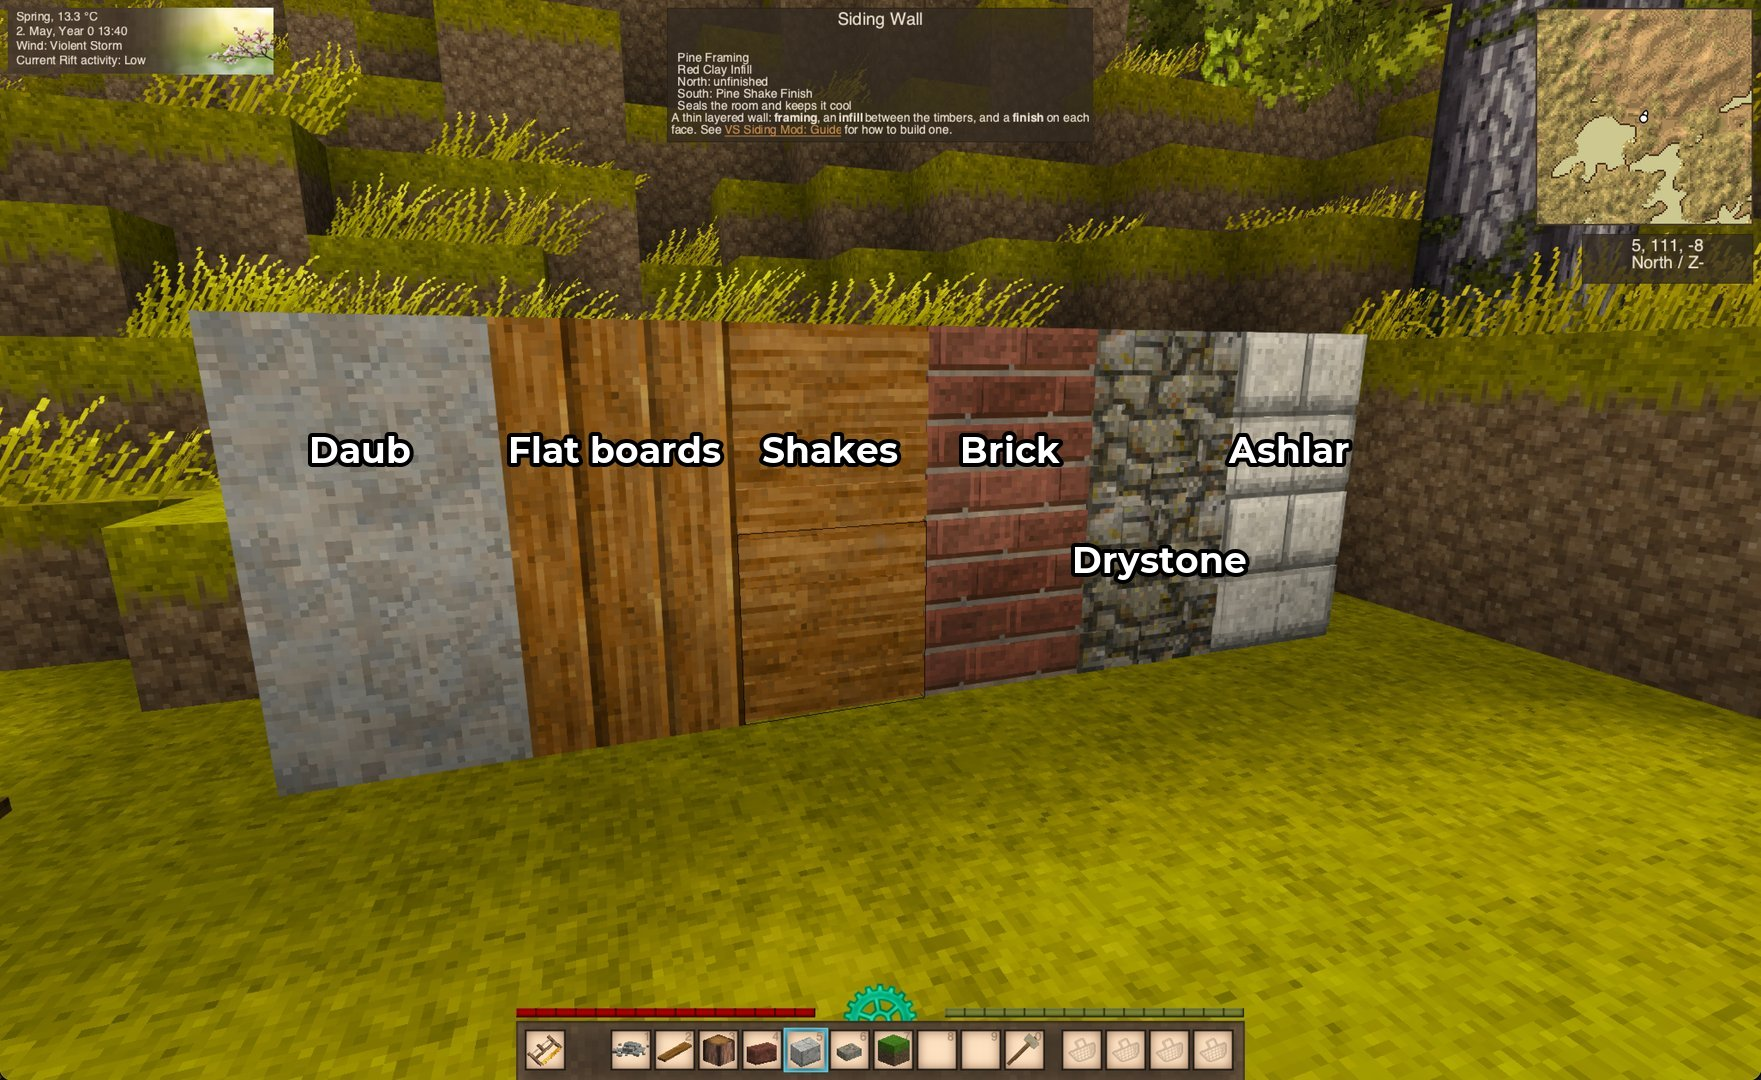
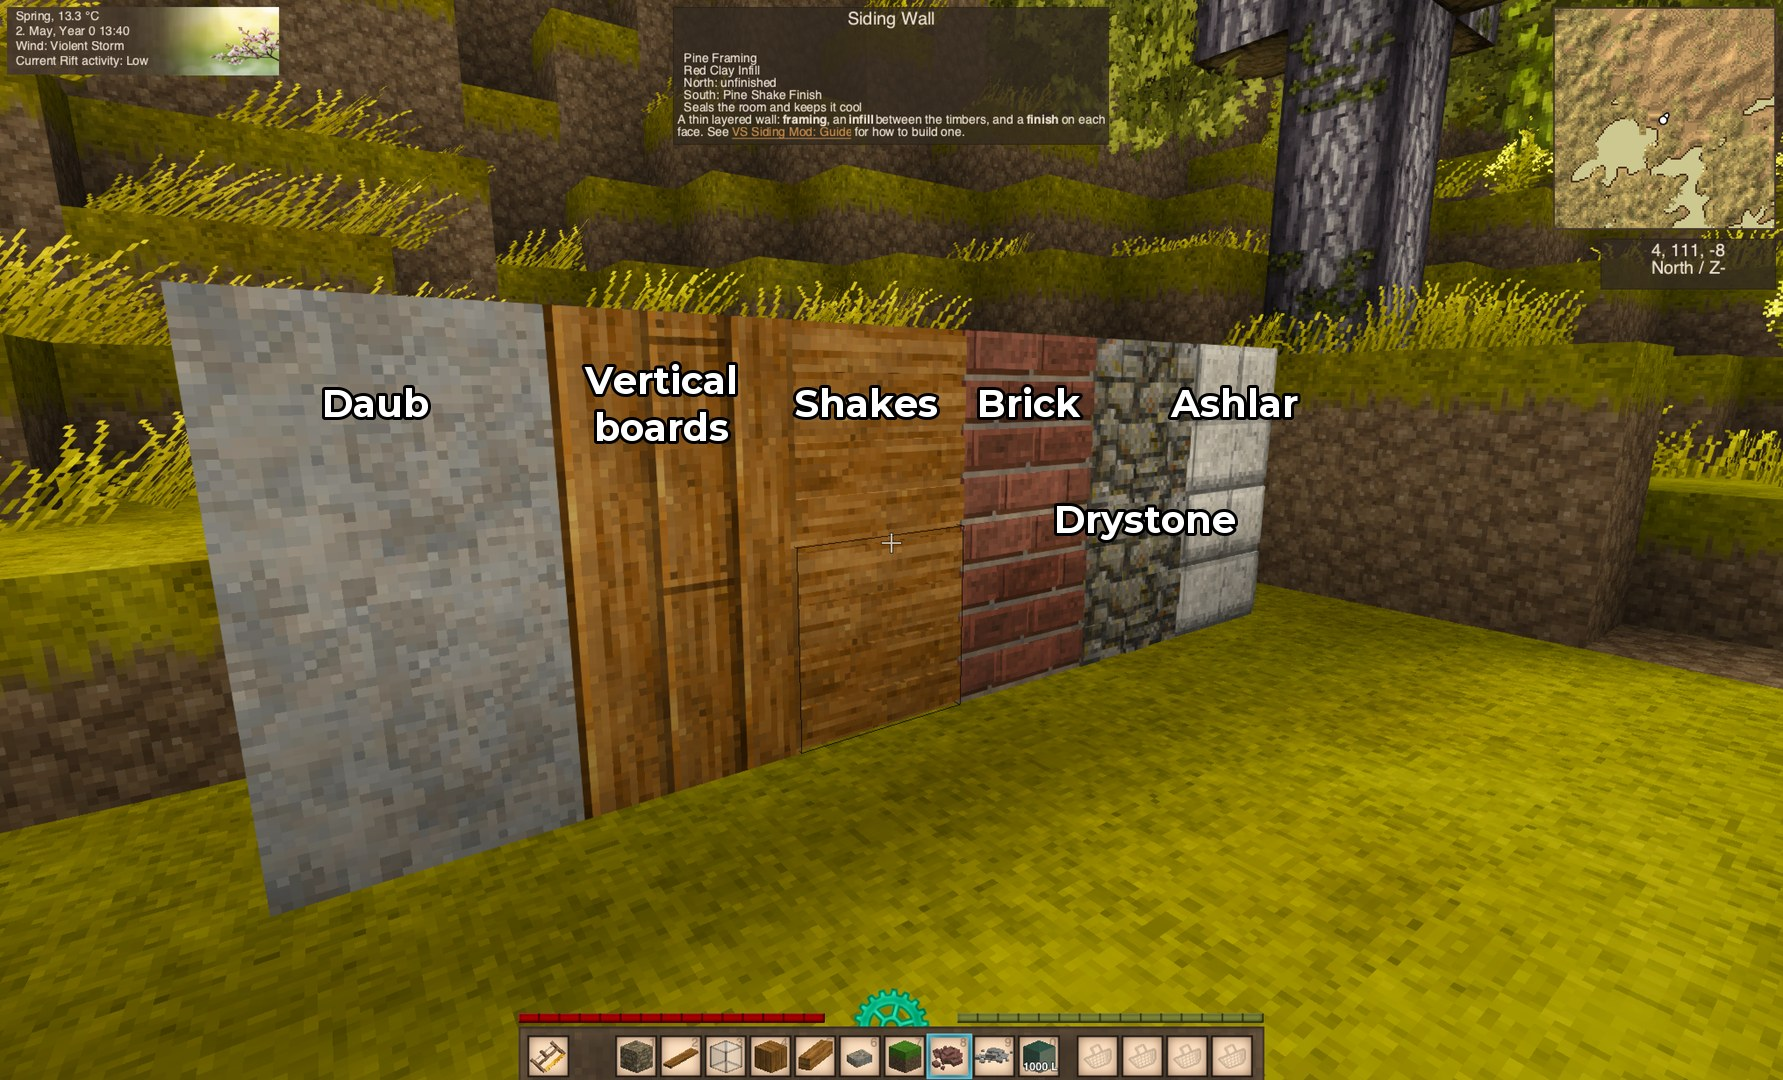
Release 1.3.0 (#89)
* fix: vary plank framing textures per block like finishes
* fix: let planks finish a filled deck in floor mode
* docs: say planks still finish a filled deck in floor mode
* docs: retake saw mode picker screenshot with the floor option
* docs: retake finishings inside screenshot after the plank texture fix
* docs: retake interior partition screenshot with the lath ceiling
* docs: add floors above screenshot
* docs: add floors below screenshot
* docs: retake handbook screenshot with the floors section
* docs: label the cobblestone finish in the floors above screenshot
* docs: move the glass label onto the glass in the floors below screenshot
* docs: add thin floors to the README
* chore: bump version to 1.3.0

diff --git a/VSSiding.E2E.Tests/DeckScenarios.cs b/VSSiding.E2E.Tests/DeckScenarios.cs
@@ -1,0 +1,52 @@
+using System.Threading.Tasks;
+using Atlas.Api;
+using Atlas.XUnit;
+using Vintagestory.API.Common;
+using Vintagestory.API.Datastructures;
+using Vintagestory.API.MathTools;
+using Xunit;
+
+namespace VSSiding.E2E.Tests;
+
+[AtlasWorld(StrictBootDiagnostics = true)]
+public class DeckScenarios : AtlasScenarioBase
+{
+    [AtlasScenario(FreshWorld = true)]
+    public async Task Deck_Should_TakeFloorboards_When_PlanksFinishItWithFloorPicked()
+    {
+        BlockPos cell = World.Spawn.Offset(1, 2, 0);
+        World.SetBlock("game:planks-aged-ud", cell.DownCopy());
+        ITestPlayer player = await WallBuilder.JoinBuilder(World);
+        await WallBuilder.Raise(World, player, cell, cell.WestCopy(), "game:plank-oak", "game:clay-blue");
+        ItemSlot slot = player.Player.InventoryManager.ActiveHotbarSlot;
+
+        player.Entity.WatchedAttributes.SetString("vssidingDeck", "deck");
+        await player.GiveItem("game:plank-oak", 2);
+        var sideSel = new BlockSelection { Position = cell.Copy(), Face = BlockFacing.EAST, HitPosition = new Vec3d(1, 0.5, 0.5) };
+        Assert.True(World.BlockAt(cell).OnBlockInteractStart(player.Entity.World, player.Player, sideSel));
+
+        // The deck's box follows the block's own boxes (SidingWallBlock.IsDeckHit).
+        var deckTopSel = new BlockSelection
+        {
+            Position = cell.Copy(), Face = BlockFacing.UP, HitPosition = new Vec3d(0.5, 1, 0.5),
+            SelectionBoxIndex = World.BlockAt(cell).SelectionBoxes.Length,
+        };
+        await player.GiveItem("game:clay-blue", 4);
+        Assert.True(World.BlockAt(cell).OnBlockInteractStart(player.Entity.World, player.Player, deckTopSel));
+
+        player.Entity.WatchedAttributes.SetString("vssidingFraming", "floor");
+        await player.GiveItem("game:plank-oak", 2);
+        Assert.True(World.BlockAt(cell).OnBlockInteractStart(player.Entity.World, player.Player, deckTopSel));
+
+        Assert.Null(slot.Itemstack);
+        Assert.Equal(("oak", "clay", "planks", null), DeckLayers(cell));
+    }
+
+    private (string? Deck, string? Infill, string? Front, string? Back) DeckLayers(BlockPos cell)
+    {
+        var tree = new TreeAttribute();
+        World.BlockEntityAt<BlockEntity>(cell)!.ToTreeAttributes(tree);
+        string? Read(string key) => tree.GetString(key) is { Length: > 0 } value ? value : null;
+        return (Read("deck"), Read("deckinfill"), Read("deckfront"), Read("deckback"));
+    }
+}

diff --git a/VSSiding/SidingWallBlock.cs b/VSSiding/SidingWallBlock.cs
@@ -359,11 +359,14 @@ public class SidingWallBlock : Block
         AssetLocation? heldCode = slot.Itemstack?.Collectible.Code;
         if (heldCode == null) return base.OnBlockInteractStart(world, byPlayer, blockSel);
 
+        var entity = world.BlockAccessor.GetBlockEntity<SidingWallEntity>(blockSel.Position);
+
         // With floor picked, planks frame a floor beside the wall (PlaceWallFrame) rather than work on it.
-        if (SidingModePicker.Layout(byPlayer) == "floor" && MatchConsumes(heldCode, Attributes["Framings"]) != null)
+        // A filled deck's top or underside still takes them as floorboards or a ceiling, as a floor's does.
+        if (SidingModePicker.Layout(byPlayer) == "floor" && MatchConsumes(heldCode, Attributes["Framings"]) != null
+            && !(entity?.DeckInfill != null && SidingFloorBlock.FinishFace(blockSel.Face) != null && IsDeckHit(world.BlockAccessor, blockSel, entity)))
             return base.OnBlockInteractStart(world, byPlayer, blockSel);
 
-        var entity = world.BlockAccessor.GetBlockEntity<SidingWallEntity>(blockSel.Position);
         if (entity == null || entity.Framing == null) return base.OnBlockInteractStart(world, byPlayer, blockSel);
 
         bool isCreative = byPlayer.WorldData.CurrentGameMode == EnumGameMode.Creative;

diff --git a/VSSiding.Tests/SidingWallTexSourceTests.cs b/VSSiding.Tests/SidingWallTexSourceTests.cs
@@ -201,4 +201,16 @@ public class SidingWallTexSourceTests
             new[] { true, false, false },
             new[] { SidingWallTexSource.AnyVaries(finishes, "daub", "planks"), SidingWallTexSource.AnyVaries(finishes, "daub", null), SidingWallTexSource.AnyVaries(finishes) });
     }
+
+    // A cell's framing and plank finish share one alternate, so they must name the same variants.
+    [Fact]
+    public void PlankFramingDrawsTheSameTexturesAsItsFinish()
+    {
+        var attributes = MaterialTextureOpacityTests.BlockAttributes("wall.json");
+        string? Texture(string dictionary, string key) => (string?)attributes[dictionary]![key]!["Texture"];
+
+        Assert.Equal(
+            new[] { Texture("Finishes", "planks"), Texture("Finishes", "planks-veryaged"), Texture("FinishFamilies", "planks-{wood}") },
+            new[] { Texture("Framings", "oak"), Texture("Framings", "veryaged"), Texture("FramingFamilies", "{wood}") });
+    }
 }

diff --git a/VSSiding/SidingFloorEntity.cs b/VSSiding/SidingFloorEntity.cs
@@ -74,7 +74,9 @@ public class SidingFloorEntity : BlockEntity
         string[] selectiveElements = SelectiveElements(Framing, Infill, Front, Back, Block.Attributes["Finishes"], joins, (FrontStyle, BackStyle), glazed);
         if (selectiveElements.Length == 0) return false;
 
-        int alternate = SidingWallTexSource.AnyVaries(Block.Attributes["Finishes"], Front, Back) ? SidingWallTexSource.Alternate(Pos) : 0;
+        int alternate = SidingWallTexSource.AnyVaries(Block.Attributes["Finishes"], Front, Back)
+            || SidingWallTexSource.AnyVaries(Block.Attributes["Framings"], Framing)
+            ? SidingWallTexSource.Alternate(Pos) : 0;
         string cacheKey = CacheKey(Framing, Infill, Front, Back, (FrontStyle, BackStyle), joins, alternate);
         MeshData[] meshes = ObjectCacheUtil.GetOrCreate(capi, cacheKey, () =>
         {

diff --git a/VSSiding/SidingWallTexSource.cs b/VSSiding/SidingWallTexSource.cs
@@ -48,8 +48,8 @@ public class SidingWallTexSource : ITexPositionSource
     // 8 and 10 (very aged planks) divides, so it can key the mesh cache and still pick vanilla's variant.
     internal static int Alternate(BlockPos pos) => GameMath.Mod(GameMath.MurmurHash3(pos.X, pos.Y, pos.Z), 120);
 
-    internal static bool AnyVaries(JsonObject finishes, params string?[] keys)
-        => keys.Any(key => key != null && finishes[key]["Texture"].AsString(null!)?.EndsWith('*') == true);
+    internal static bool AnyVaries(JsonObject dictionary, params string?[] keys)
+        => keys.Any(key => key != null && dictionary[key]["Texture"].AsString(null!)?.EndsWith('*') == true);
 
     // Variant 0 is the base, then the alternates, the order Bake lists them in.
     internal static CompositeTexture PickAlternate(CompositeTexture baked, int alternate)

diff --git a/VSSiding/SidingWallEntity.cs b/VSSiding/SidingWallEntity.cs
@@ -167,6 +167,7 @@ public class SidingWallEntity : BlockEntity
         if (selectiveElements.Length == 0 && deckElements.Length == 0) return false;
 
         int alternate = SidingWallTexSource.AnyVaries(Block.Attributes["Finishes"], Front, SecondFront, Back, DeckFront, DeckBack)
+            || SidingWallTexSource.AnyVaries(Block.Attributes["Framings"], Framing, Deck)
             ? SidingWallTexSource.Alternate(Pos) : 0;
         string cacheKey = CacheKey(layout, side, Framing, Infill, Front, SecondFront, Back, joins, Styles, Deck, Step, StepOrientation,
             DeckInfill, DeckFront, DeckBack, (DeckFrontStyle, DeckBackStyle), deckJoins, alternate);

diff --git a/README.md b/README.md
@@ -2,7 +2,7 @@
 
 ![external-logo](docs/screenshots/ExternalLogo.jpg)
 
-A Vintage Story mod that replaces solid one-block walls with a thin, layered wall system: pick a framing material, an infill material, and a finish for each face, and build walls that read like actual construction instead of a stack of full blocks.
+A Vintage Story mod that replaces solid one-block walls and floors with thin, layered ones: pick a framing material, an infill material, and a finish for each face, and build walls and floors that read like actual construction instead of a stack of full blocks.
 
 Inspired by how the [Roofing](https://mods.vintagestory.at/show/mod/30143) mod handles pitched roofs: one shared shape, material swapped in via config, instead of hand-authoring every combination.
 
@@ -11,18 +11,25 @@ Inspired by how the [Roofing](https://mods.vintagestory.at/show/mod/30143) mod h
 Put a saw in your off-hand slot, hold the material in your main hand, and right-click.
 Every layer goes on the same way: planks raise the framing, an infill fills it, a finish faces each side.
 
-The saw carries a tool mode picker, and the mode decides what you build: a flat **wall**, an outside **corner**, overlapping **weatherboard**, or flush **flat boards**.
+The saw carries a tool mode picker, and the mode decides what you build: a flat **wall**, an outside **corner** or a thin **floor**, and whether plank and log finishes go on as weatherboard, boards, shakes or logs.
 The in-game handbook page *VS Siding Mod: Guide* has the whole thing.
 
 ## What a wall is made of
 
-- **Framing**: planks, in any wood the game has.
+- **Framing**: planks, in any wood the game or another mod adds.
 - **Infill**: wattle, straw, clay, rubble stone or glass.
 - **Finish**: appearance only, per face, in wood, clay, brick, stone, or metal.
 
 Framing plus infill is a complete wall, and seals a room the way solid blocks do.
 The infill decides whether it counts as a cooling (cellar) wall: rubble stone and clay do, wattle and straw do not.
 Glass seals the same way but lets daylight through.
+
+## Floors
+
+Pick **floor** on the saw and right-click the side of a block with planks to lay joists.
+Fill a floor the way you fill a wall, then finish the top with floorboards and the underside with a ceiling.
+A filled floor seals the room below it, glass floors let light through, and a lantern or chandelier hangs from the underside.
+A wall's deck takes the same layers, so a floor runs right up to the wall.
 
 ## Screenshots
 
@@ -39,6 +46,11 @@ The finishes:
 ![finishes-inside](docs/screenshots/FinishingsInside.jpg)
 ![finishes-3D-texture](docs/screenshots/Finishings3DTexture.jpg)
 ![finishes-corner](docs/screenshots/FinishingsCorner.jpg)
+
+Floors, from above and below:
+
+![floors-above](docs/screenshots/FloorsAbove.jpg)
+![floors-below](docs/screenshots/FloorsBelow.jpg)
 
 Interior wall sharing:
 
